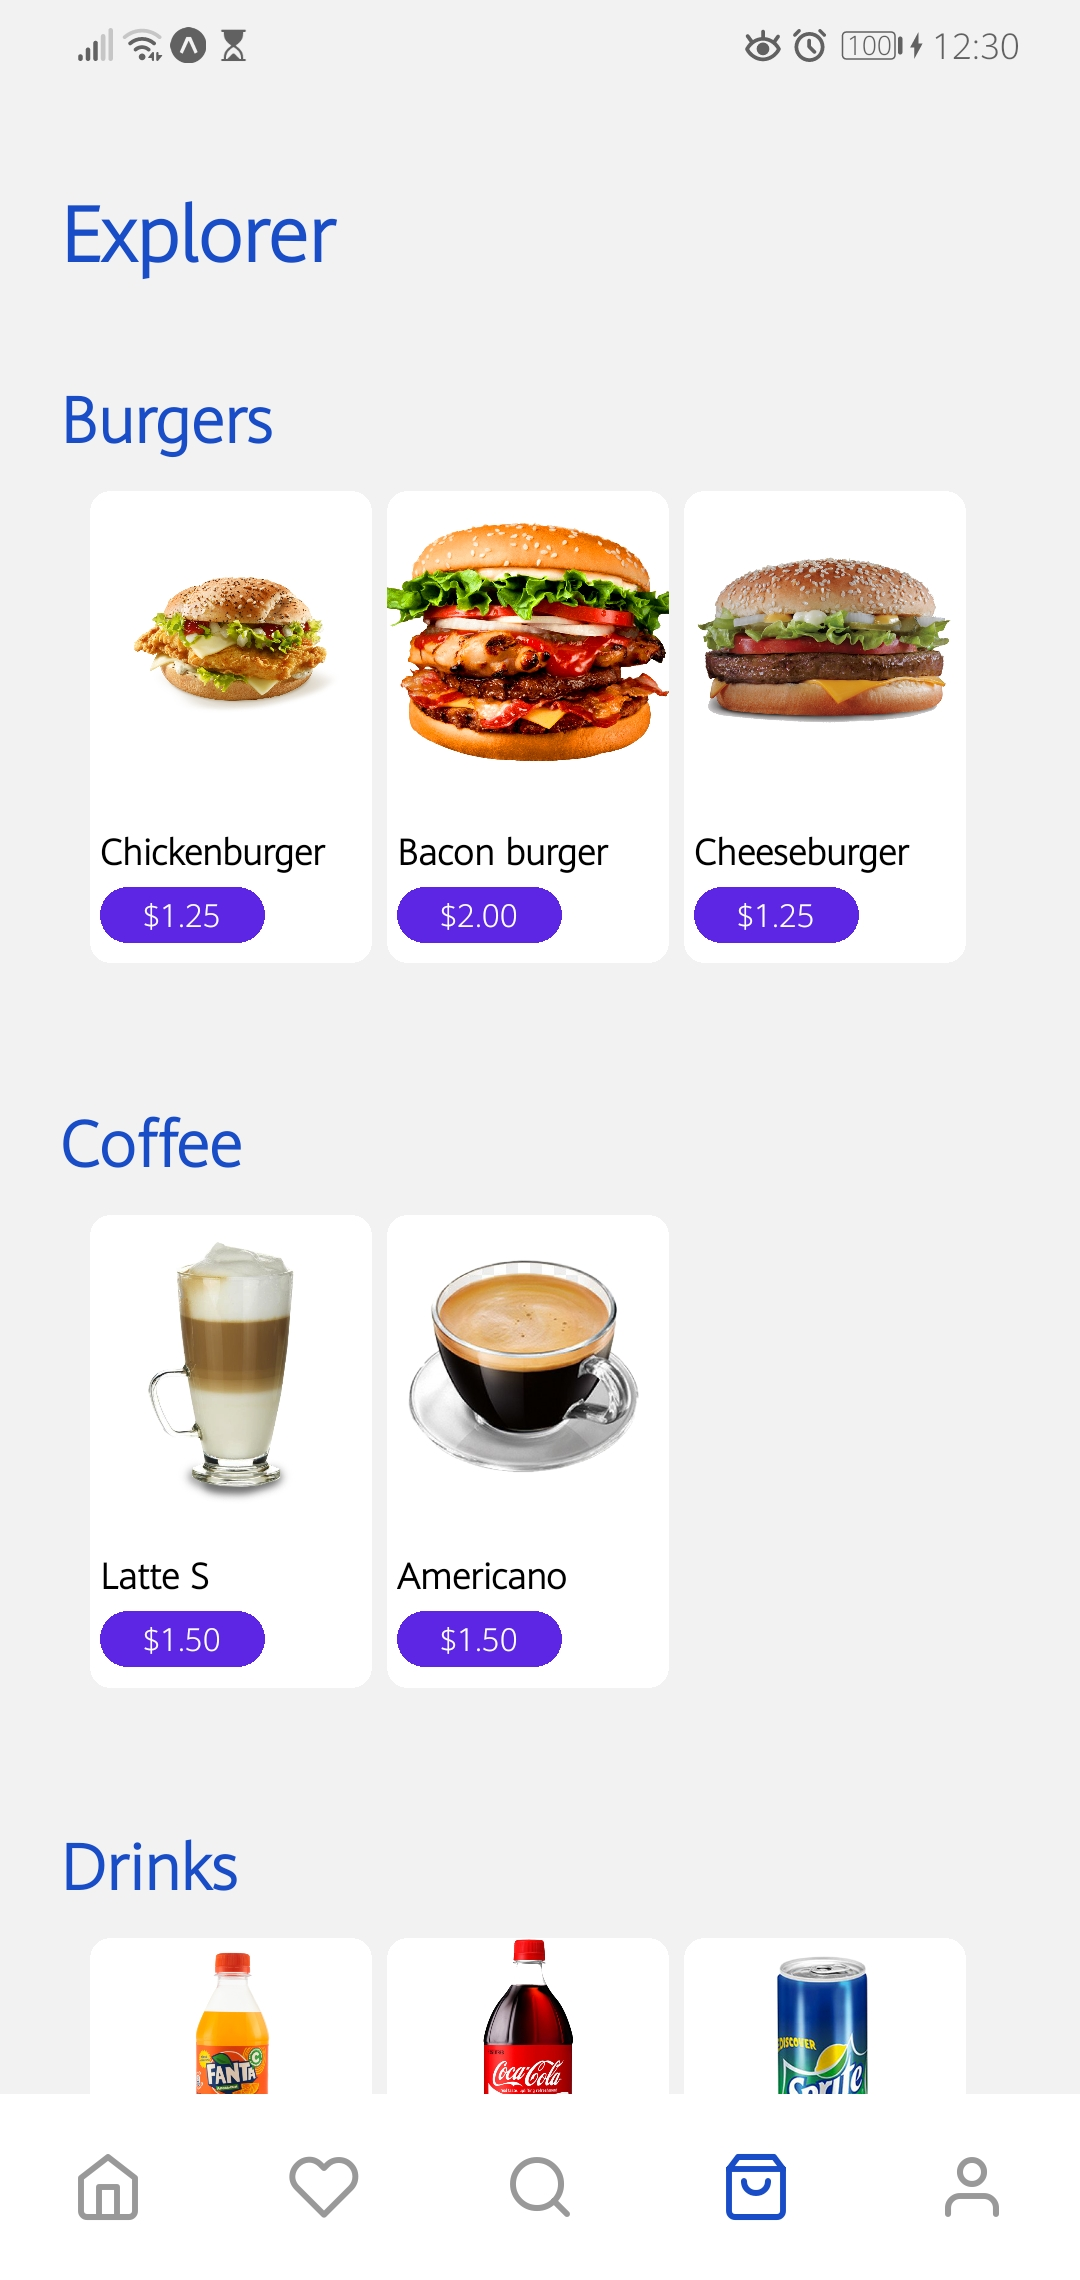
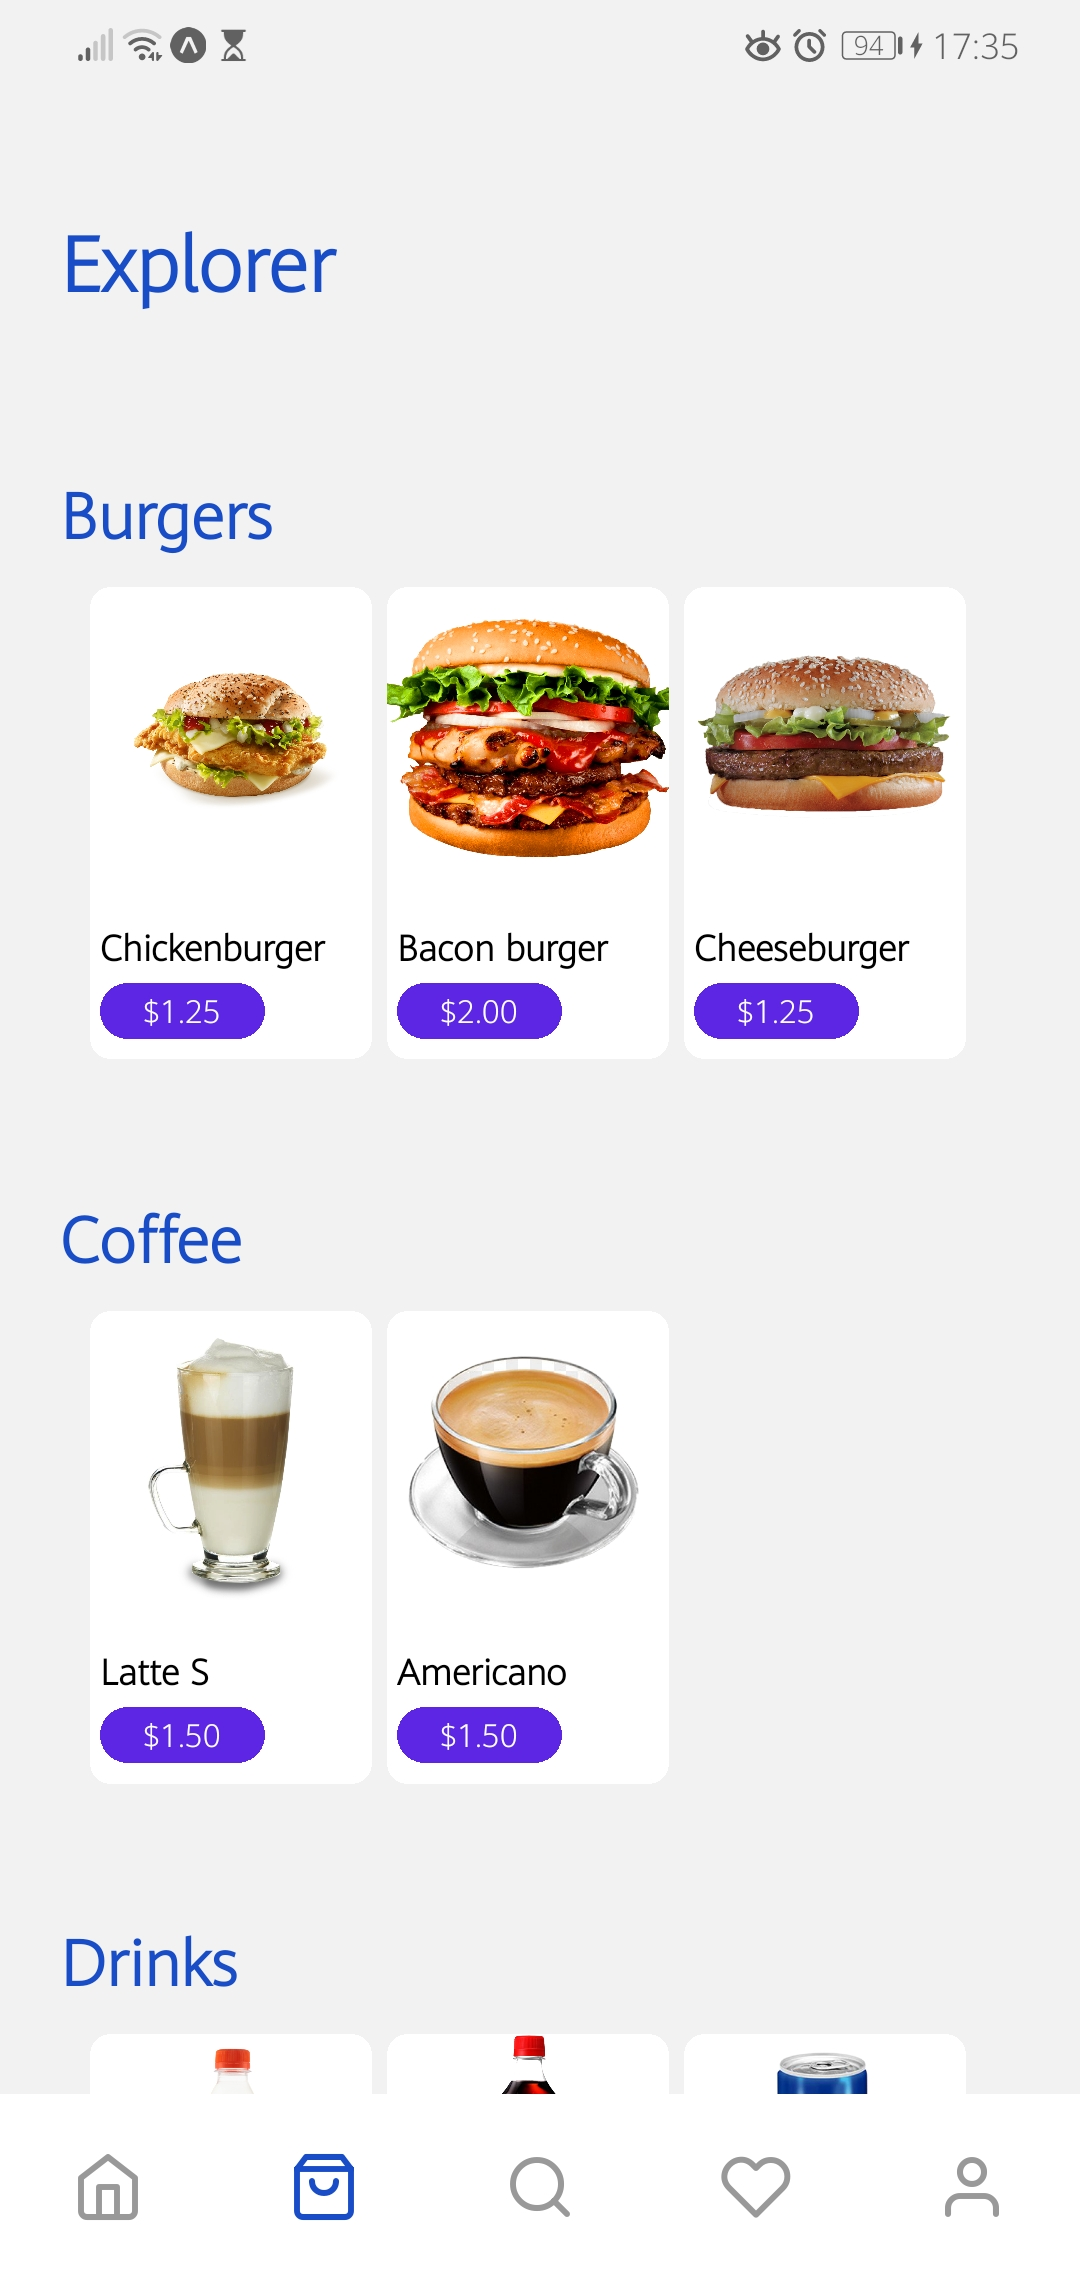
docs

diff --git a/food-delivery-react-native/food-delivery-client/app/screens/explorer/index.tsx b/food-delivery-react-native/food-delivery-client/app/screens/explorer/index.tsx
@@ -11,7 +11,7 @@ export const ExplorerScreen: React.FC = () => {
 
   return (
     <NoScrollViewContainer className="h-full">
-      <View style={{ paddingVertical: AppLayoutPaddings.vertical, paddingBottom: AppLayoutPaddings.vertical * 2 }}>
+      <View style={{ paddingVertical: AppLayoutPaddings.vertical + AppLayoutPaddings.top, paddingBottom: AppLayoutPaddings.vertical * 2 }}>
         <View className="mb-10" style={{ paddingHorizontal: AppLayoutPaddings.horizontal }}>
           <Heading>Explorer</Heading>
         </View>
